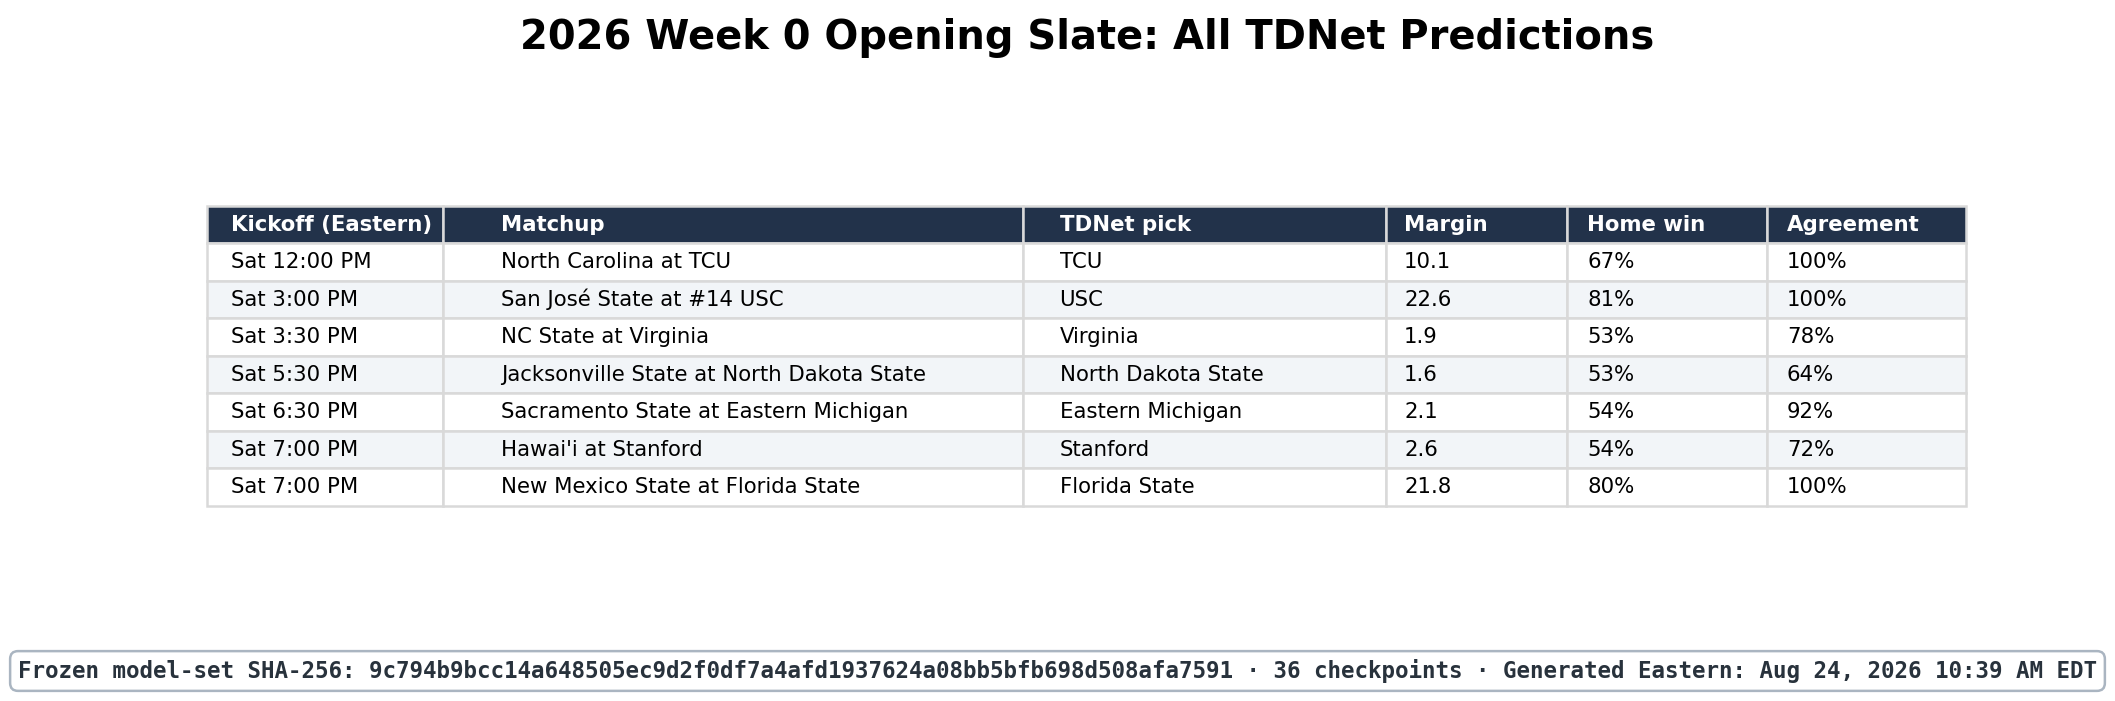
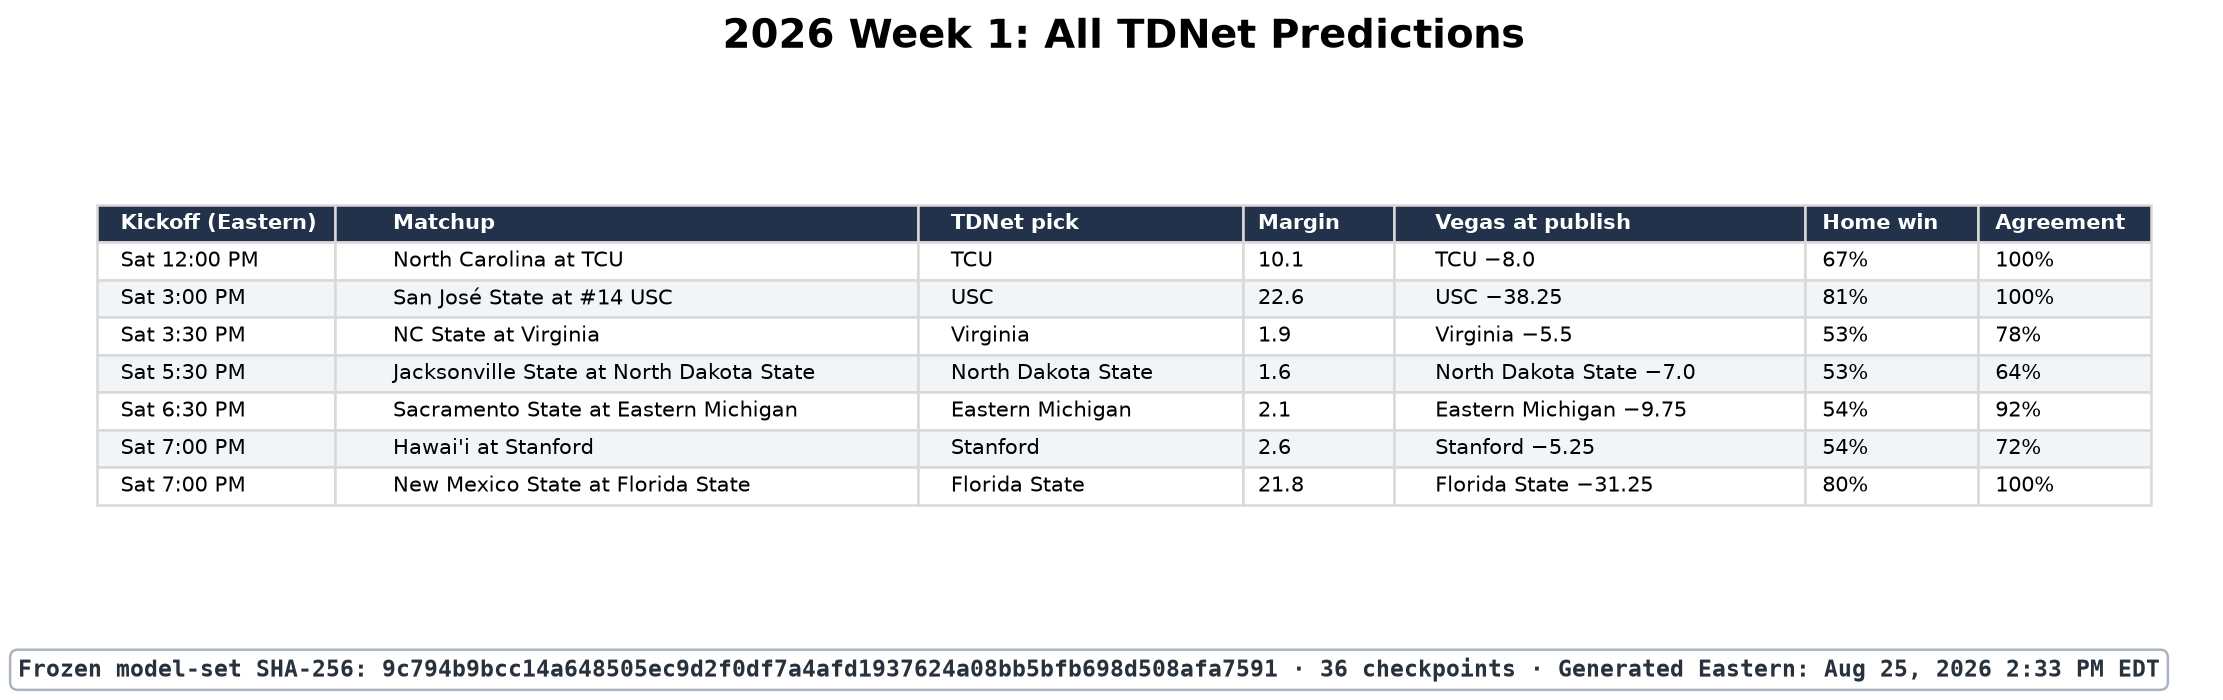
Add publication-time Vegas spreads to picks

diff --git a/src/gridiron_ml/publication/weekly.py b/src/gridiron_ml/publication/weekly.py
@@ -208,6 +208,8 @@ def build_weekly_blog_package(
     if long.empty:
         raise RuntimeError("Every inventory model collapsed to a constant weekly prediction.")
     consensus = summarize_weekly_predictions(long)
+    if "vegas_spread_as_of_publish" in consensus:
+        consensus["vegas_spread_published_at_utc"] = created_at
     ranking_column = "preseason_performance_rank" if "preseason_performance_rank" in long else "roster_rank"
     ap_path = ap_top25_path or top25_path
     ap_top25 = load_ap_top25(ap_path, season=season, week=week) if ap_path else pd.DataFrame(columns=["rank", "team"])
@@ -259,7 +261,7 @@ def build_weekly_blog_package(
             closest_games,
             figures / "closest_games.png",
             logo_dir=logo_dir,
-            title=f"{season} Week {week}: 10 Closest TDNet Consensus Games",
+            title=f"{season} Week {week}: {len(closest_games)} Closest TDNet Consensus Games",
             model_set_sha256=model_set_sha256,
             checkpoint_count=len(figure_checkpoint_hashes),
             generated_at_utc=created_at,
@@ -355,9 +357,9 @@ def build_weekly_blog_package(
         )
     (blog / "figure_captions.md").write_text(
         "# Figure captions\n\n"
-        f"1. **Top 25 matchups.** Consensus frozen-model predictions for {len(top25_games)} games involving a team in {top25_label or 'the supplied Top 25 snapshot'}. Margins are signed from the home team's perspective.\n\n"
-        f"2. **All games.** Consensus predictions for {len(consensus)} scheduled games.\n\n"
-        f"3. **Closest games.** The ten scheduled games with the smallest absolute consensus predicted margins.{social_captions}\n",
+        f"1. **Top 25 matchups.** Consensus frozen-model predictions for {len(top25_games)} games involving a team in {top25_label or 'the supplied Top 25 snapshot'}, with the Vegas spread frozen at publication. Margins are signed from the home team's perspective.\n\n"
+        f"2. **All games.** Consensus predictions and publication-time Vegas spreads for {len(consensus)} scheduled games.\n\n"
+        f"3. **Closest games.** The ten scheduled games with the smallest absolute consensus predicted margins, with publication-time Vegas spreads.{social_captions}\n",
         encoding="utf-8",
     )
     social_alt_text = (
@@ -371,9 +373,9 @@ def build_weekly_blog_package(
         )
     (blog / "alt_text.md").write_text(
         "# Alt text\n\n"
-        "Top 25 matchup cards show each away and home team logo, poll rank when available, and the TDNet consensus predicted winner and margin.\n\n"
-        "The all-games table lists kickoff, matchup, predicted winner, signed home margin, home win probability, and model agreement.\n\n"
-        f"Closest-game cards show the ten lowest-margin projected games with team logos, predicted winner, margin, home win probability, and model agreement.{social_alt_text}\n",
+        "Top 25 matchup cards show each away and home team logo, poll rank when available, the TDNet consensus predicted winner and margin, and the Vegas spread frozen at publication.\n\n"
+        "The all-games table lists kickoff, matchup, predicted winner, signed home margin, publication-time Vegas spread, home win probability, and model agreement.\n\n"
+        f"Closest-game cards show the ten lowest-margin projected games with team logos, predicted winner, margin, publication-time Vegas spread, home win probability, and model agreement.{social_alt_text}\n",
         encoding="utf-8",
     )
     manifest = {
@@ -402,6 +404,8 @@ def build_weekly_blog_package(
         "schedule_snapshot_sha256": sha256_file(schedule_snapshot_path),
         "market_lines_path": str(resolved_market_lines.resolve()) if resolved_market_lines.exists() else None,
         "market_lines_sha256": sha256_file(resolved_market_lines) if resolved_market_lines.exists() else None,
+        "market_lines_published_at_utc": created_at if resolved_market_lines.exists() else None,
+        "market_lines_semantics": "pregame provider-median spread frozen at publication",
         "ap_top25_path": str(Path(ap_path).resolve()) if ap_path else None,
         "ap_top25_label": top25_label or "AP Top 25",
         "ranking_source_is_ap": (top25_label or "AP Top 25").strip().casefold() == "ap top 25",
@@ -457,6 +461,10 @@ def summarize_weekly_predictions(long: pd.DataFrame) -> pd.DataFrame:
         summary["pred_home_win_probability"] >= 0.5, summary["away_team"]
     )
     summary["predicted_margin"] = summary["pred_home_margin"].abs()
+    if "market_spread_close" in summary:
+        # The publication pipeline refreshes this snapshot before rendering;
+        # retain the legacy source column but expose its frozen semantics.
+        summary["vegas_spread_as_of_publish"] = summary["market_spread_close"]
     return summary.sort_values(["game_start_time_utc", "game_id"], ignore_index=True)
 
 
@@ -559,7 +567,11 @@ def plot_top25_matchups(games, path, *, logo_dir, title, dpi=200, model_set_sha2
         winner = str(game["pred_winner"])
         margin = float(game["predicted_margin"])
         axis.text(0.50, 0.39, f"TDNet: {winner} by {margin:.1f}", ha="center", va="center", fontsize=13, color="#8A2D2D", weight="bold")
-        axis.text(0.50, 0.20, f"Agreement {float(game['model_agreement']):.0%}  •  Home win {float(game['pred_home_win_probability']):.0%}", ha="center", fontsize=8.5, color="#555")
+        axis.text(
+            0.50, 0.25, f"Vegas at publish: {format_vegas_spread(game)}",
+            ha="center", fontsize=9, color="#22324A", weight="bold",
+        )
+        axis.text(0.50, 0.13, f"Agreement {float(game['model_agreement']):.0%}  •  Home win {float(game['pred_home_win_probability']):.0%}", ha="center", fontsize=8.5, color="#555")
     fig.suptitle(title, fontsize=17, weight="bold", y=0.995)
     stamp = _model_hash_stamp(model_set_sha256, checkpoint_count, generated_at_utc)
     if stamp:
@@ -587,12 +599,13 @@ def plot_all_games_table(games, path, *, title, dpi=180, model_set_sha256=None, 
                 ],
                 "TDNet pick": table["pred_winner"],
                 "Margin": table["predicted_margin"].map(lambda x: f"{x:.1f}"),
+                "Vegas at publish": [format_vegas_spread(game) for _, game in table.iterrows()],
                 "Home win": table["pred_home_win_probability"].map(lambda x: f"{x:.0%}"),
                 "Agreement": table["model_agreement"].map(lambda x: f"{x:.0%}"),
             }
         )
     fig_height = max(3.0, 0.34 * len(table) + 1.4)
-    fig, axis = plt.subplots(figsize=(13, fig_height))
+    fig, axis = plt.subplots(figsize=(15.5, fig_height))
     axis.axis("off")
     plot_table = axis.table(
         cellText=table.values,
@@ -600,7 +613,7 @@ def plot_all_games_table(games, path, *, title, dpi=180, model_set_sha256=None, 
         loc="center",
         cellLoc="left",
         colLoc="left",
-        colWidths=[0.13, 0.32, 0.20, 0.10, 0.11, 0.11][: len(table.columns)],
+        colWidths=[0.11, 0.27, 0.15, 0.07, 0.19, 0.08, 0.08][: len(table.columns)],
     )
     plot_table.auto_set_font_size(False)
     plot_table.set_fontsize(8.5)
@@ -625,6 +638,22 @@ def plot_all_games_table(games, path, *, title, dpi=180, model_set_sha256=None, 
 def format_eastern_kickoffs(values: pd.Series) -> pd.Series:
     kickoff = pd.to_datetime(values, utc=True, errors="coerce").dt.tz_convert("America/New_York")
     return kickoff.dt.strftime("%a %-I:%M %p")
+
+
+def format_vegas_spread(game: pd.Series | dict) -> str:
+    """Format a frozen home-convention spread as the public-facing favorite."""
+    spread = pd.to_numeric(
+        game.get("vegas_spread_as_of_publish", game.get("market_spread_close")),
+        errors="coerce",
+    )
+    if pd.isna(spread):
+        return "Not available"
+    if abs(float(spread)) < 1e-9:
+        return "Pick'em"
+    favorite = game.get("home_team") if float(spread) < 0 else game.get("away_team")
+    magnitude = abs(float(spread))
+    line = f"{magnitude:.1f}" if abs(magnitude * 2 - round(magnitude * 2)) < 1e-9 else f"{magnitude:.2f}"
+    return f"{favorite} −{line}"
 
 
 def render_weekly_summary_markdown(*, season, week, consensus, top25_games, closest_games=None, model_count, top25_label=None):

diff --git a/tests/test_publication_weekly_figures.py b/tests/test_publication_weekly_figures.py
@@ -13,6 +13,7 @@ from gridiron_ml.publication.weekly import (
     _build_schedule_driven_matchups,
     frozen_model_set_sha256,
     format_eastern_kickoffs,
+    format_vegas_spread,
     plot_all_games_table,
     plot_top25_matchups,
     summarize_weekly_predictions,
@@ -90,6 +91,24 @@ def test_public_pick_kickoffs_are_rendered_in_eastern_time():
         "pred_home_win_probability": .6, "model_agreement": .8,
     }])
     assert format_eastern_kickoffs(games["game_start_time_utc"]).iloc[0] == "Sat 12:00 PM"
+
+
+def test_public_pick_spread_names_favorite_at_publication():
+    assert format_vegas_spread({
+        "home_team": "Home", "away_team": "Away", "market_spread_close": -3.5,
+    }) == "Home −3.5"
+    assert format_vegas_spread({
+        "home_team": "Home", "away_team": "Away", "market_spread_close": 2.5,
+    }) == "Away −2.5"
+    assert format_vegas_spread({
+        "home_team": "Home", "away_team": "Away", "market_spread_close": 0,
+    }) == "Pick'em"
+    assert format_vegas_spread({
+        "home_team": "Home", "away_team": "Away", "market_spread_close": None,
+    }) == "Not available"
+    assert format_vegas_spread({
+        "home_team": "Home", "away_team": "Away", "market_spread_close": -3.25,
+    }) == "Home −3.25"
 
 
 def test_team_label_prefers_canonical_ap_rank_columns():
@@ -232,6 +251,7 @@ def test_weekly_consensus_preserves_market_spread_for_social_graphics():
     ])
     consensus = summarize_weekly_predictions(rows)
     assert consensus.loc[0, "market_spread_close"] == -3.5
+    assert consensus.loc[0, "vegas_spread_as_of_publish"] == -3.5
 
 
 def test_cfbd_provider_median_lines_merge_without_fabricating_empty_games():

diff --git a/publication/2026/week_00/pre_game/blog/alt_text.md b/publication/2026/week_00/pre_game/blog/alt_text.md
@@ -1,7 +1,7 @@
 # Alt text
 
-Top 25 matchup cards show each away and home team logo, poll rank when available, and the TDNet consensus predicted winner and margin.
+Top 25 matchup cards show each away and home team logo, poll rank when available, the TDNet consensus predicted winner and margin, and the Vegas spread frozen at publication.
 
-The all-games table lists kickoff, matchup, predicted winner, signed home margin, home win probability, and model agreement.
+The all-games table lists kickoff, matchup, predicted winner, signed home margin, publication-time Vegas spread, home win probability, and model agreement.
 
-Closest-game cards show the ten lowest-margin projected games with team logos, predicted winner, margin, home win probability, and model agreement.
+Closest-game cards show the lowest-margin projected games with team logos, predicted winner, margin, publication-time Vegas spread, home win probability, and model agreement.

diff --git a/publication/2026/week_00/pre_game/blog/figure_captions.md b/publication/2026/week_00/pre_game/blog/figure_captions.md
@@ -1,7 +1,7 @@
 # Figure captions
 
-1. **Top 25 matchups.** Consensus frozen-model predictions for 1 games involving a team in AP Top 25. Margins are signed from the home team's perspective.
+1. **Top 25 matchups.** Consensus frozen-model predictions for one game involving a team in the AP Top 25, with the Vegas spread frozen at publication. Margins are signed from the home team's perspective.
 
-2. **All games.** Consensus predictions for 7 scheduled games.
+2. **All games.** Consensus predictions and publication-time Vegas spreads for 7 scheduled games.
 
-3. **Closest games.** The ten scheduled games with the smallest absolute consensus predicted margins.
+3. **Closest games.** The scheduled games with the smallest absolute consensus predicted margins, with publication-time Vegas spreads.
